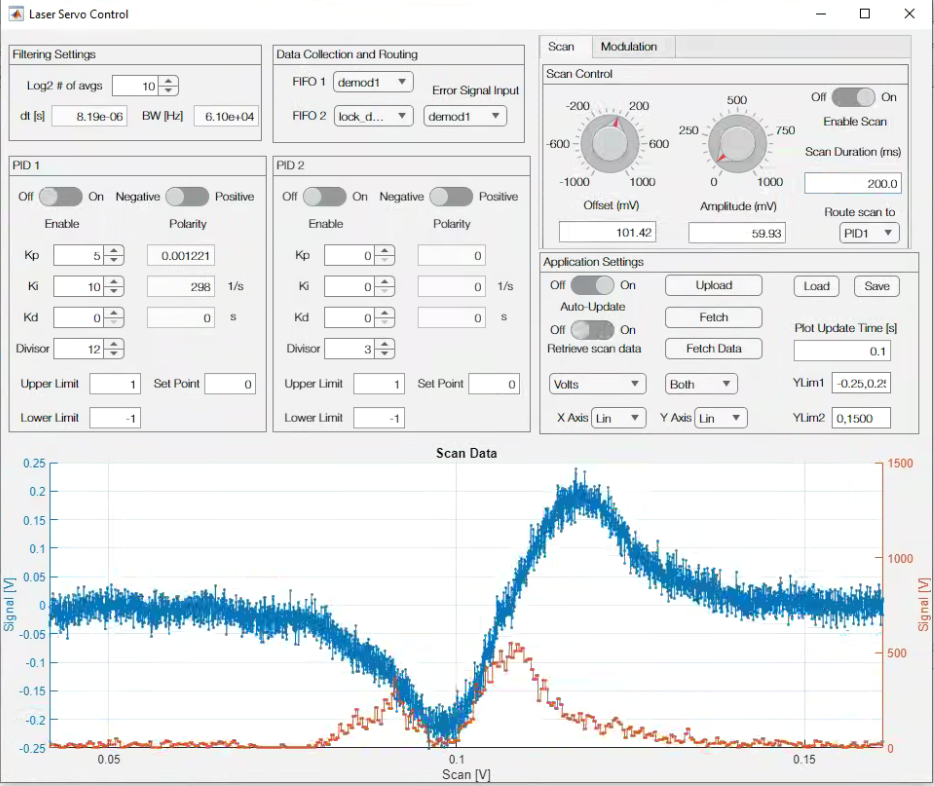
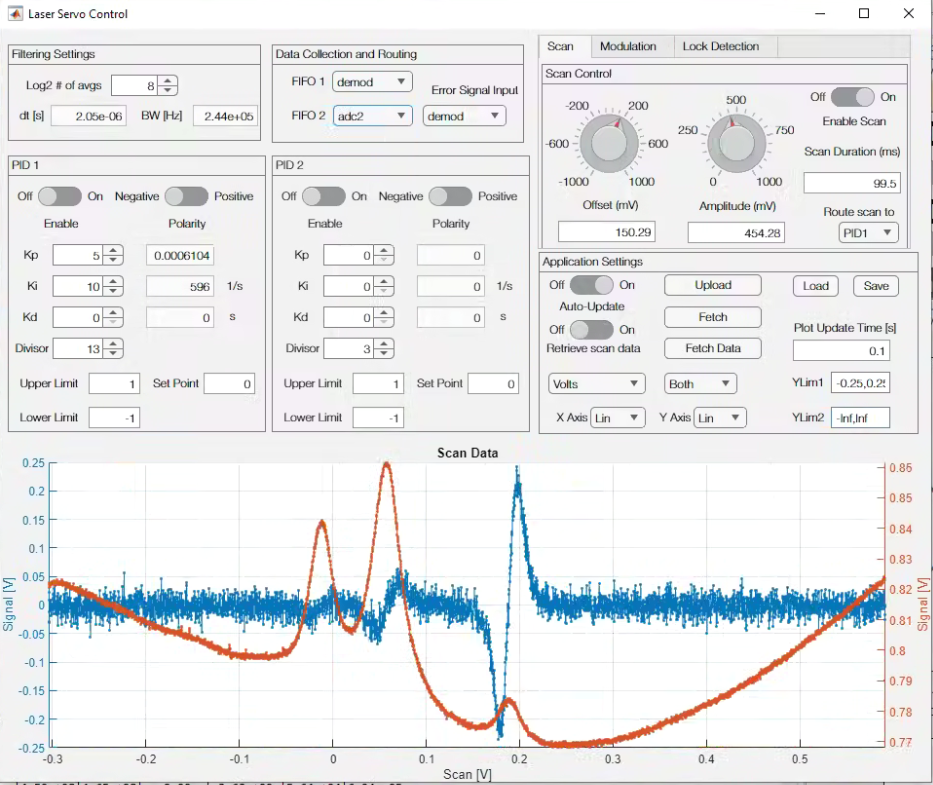
Updated README and images

diff --git a/README.md b/README.md
@@ -108,7 +108,7 @@ Data can be stored in a first-in first-out (FIFO) buffer on the FPGA for later r
 
 # Use
 
-The servo can be controlled from the MATLAB command line, but users will probably find it easier to control using the supplied GUI.  A screenshot of the GUI when scanning is shown below for a modulation transfer spectroscopy setup.  The blue signal is the MTS spectrum used as the error signal, and the red signal is the lock detection signal derived from the power in the second harmonic.
+The servo can be controlled from the MATLAB command line, but users will probably find it easier to control using the supplied GUI.  A screenshot of the GUI when scanning is shown below for a modulation transfer spectroscopy setup.  The blue signal is the MTS spectrum used as the error signal, and the red signal is the saturated absorption signal.
 
 ![Example GUI](images/gui-example-scan.png)
 
@@ -132,7 +132,7 @@ When the x-axis plot display is set to "Volts" (see Application Settings), you c
 
 The modulation tab controls the internal modulation signal generator and the lock-in detection settings.  
 
-![Example GUI locked](images/gui-example-locked.png)
+![Example GUI locked](images/gui-example-modulation.png)
 
 In this version, the modulation and demodulation frequencies can be different.  The modulation signal has an output voltage given by `Drive amplitude` which is the approximate peak output voltage into $50$ $\rm\Omega$.  What the two outputs on the RP produce can be controlled by the drop-down menus on `OUT1` and `OUT2`: `pid` selects the output of the respective PID controller, and `modulation` outputs the modulation signal.  The ADC used for demodulation can be selected using the drop-down menu `Lock-in ADC`.  Lock-in detection occurs using the `Demodulation phase` value, and this is filtered by a so-called CIC filter at a decimating rate of $2^N$ where $N$ is the value of `Log2 of CIC rate`.  The demodulated signal can be amplified/deamplified digitally using the `Log2 of CIC shift` value, which scales it by $2^A$ for value $A$.  Note that this does not increase the SNR, but it may be useful if the signal is too small and there is digitisation noise on the signal.    
 
@@ -144,9 +144,13 @@ Upper and lower limits to the PID outputs can be set, and they cannot exceed +/-
 
 ## Lock detection
 
-Lock-in detection at the fundamental will generate a signal proportional to the first derivative of the absorption spectrum, which is useful for producing an error signal.  Lock-in detection at the second harmonic will generate a signal proportional to the second derivative, and this can be used to detect if the laser is locked as there will only be power in the second harmonic when it is on resonance with the atomic transition.
+Lock-in detection at the fundamental will generate a signal proportional to the first derivative of the absorption spectrum, which is useful for producing an error signal.  Lock-in detection at the second harmonic will generate a signal proportional to the second derivative, and this can be used to detect if the laser is locked as there will only be power in the second harmonic when it is on resonance with the atomic transition.  The below image shows what the lock detect signal looks like while scanning.
 
-![Example GUI lock detection](images/gui-example-lock-detection.png)
+![Example GUI lock detection on scan](images/gui-example-scan-lock-detect.png)
+
+And the following image shows what the signal looks like when locked.
+
+![Example GUI lock detection when locked](images/gui-example-lock-detect-locked.png)
 
 Because the signal level in the second harmonic is much less than the fundamental, lock detection uses two cascaded CIC filters with their own rates and re-scaling.  This improves the SNR at the cost of bandwidth, but as it is only being used for lock detection the bandwidth is mostly irrelevant.  Lock detection requires a threshold power, and when the power in the second harmonic is above this value (in arbitrary units) the "LED" on the GUI will turn green.  Additionally, one of the orange LEDs on the Red Pitaya (the one closest to ethernet and power connectors) will flash on and off at about 1 Hz.  
 
